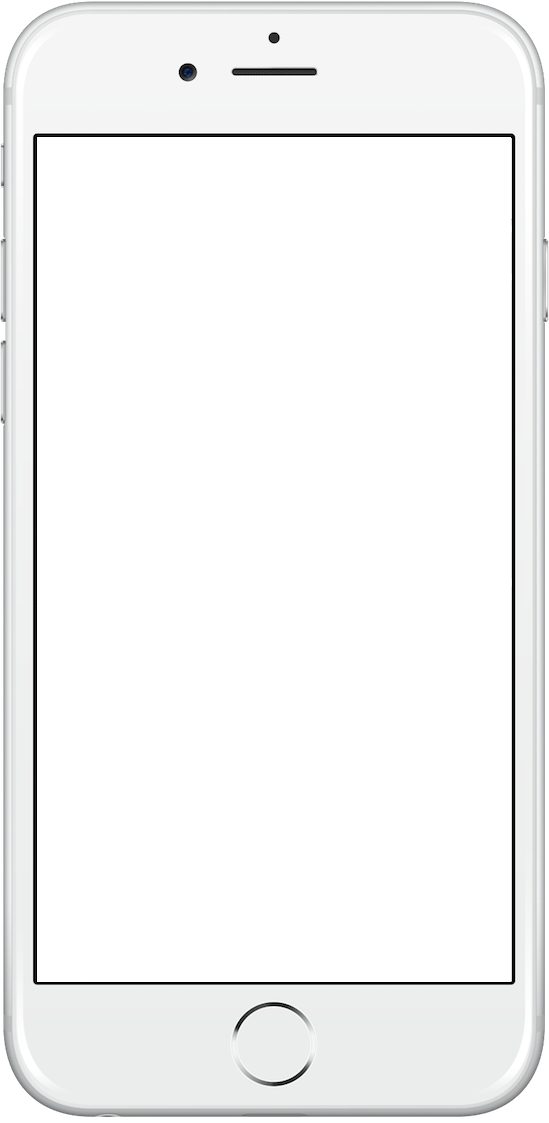
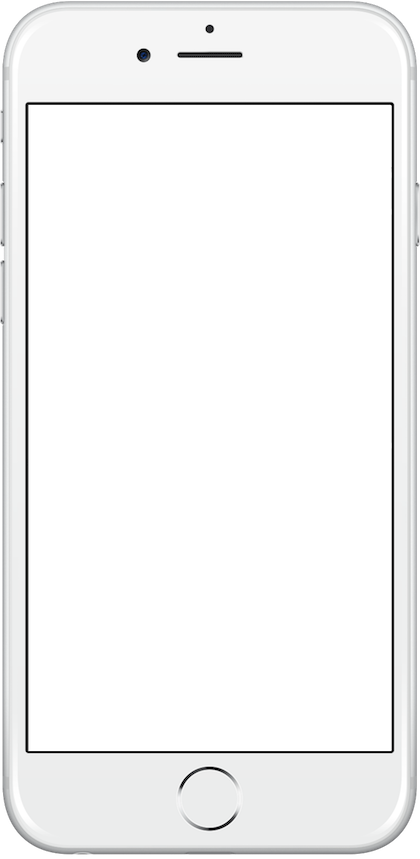
phone login false

diff --git a/src/app/nile-web/home/home/home.component.css b/src/app/nile-web/home/home/home.component.css
@@ -3,23 +3,42 @@
   color: white;
   background-image: url(/assets/images/construct-pickup-4c.jpg);
   width: 100%;
-    background-position: center;
-    background-repeat: no-repeat;
-    background-size: cover;
+  background-position: center;
+  background-repeat: no-repeat;
+  background-size: cover;
 }
-.float-form {
+
+#phoneform {
   float: right;
-  padding-left: 150px;
+  background-image: url(/assets/images/iphone-frame-white.png);
+  background-repeat: no-repeat;
+  margin-right: 25px;
+  margin-top: 100px;
+  width: 400px;
 }
+#iphoneframe {
+  width: 400px;
+  background-repeat: none;
+    /* box-shadow: 0 0 20px 0 rgba(0, 0, 0, 0.2), 0 5px 5px 0 rgba(0, 0, 0, 0.24); */
+      /* round iphone shading */
+}
+#landform {
+  background: #FFFFFF;
+  width: 360px;
+  padding: 40px;
+  text-align: center;
+  margin-top: 105px;
+  margin-left: 15px;
+}
+
 .btn {
   background-color: #0A5A89;
   border-color: #0A5A89;
 }
 
-.my-4 {
+.5 {
   width: 50%;
 }
-
 h1 {
   font-family: 'Oswald', sans-serif;
 }
@@ -32,83 +51,17 @@ h3 {
   font-family: 'Libre Baskerville', serif;
 }
 
-body {
-  padding-left: 20px;
-  padding-right: 20px;
-}
-
-.form img {
-  width: 65%;
-  height: 65%;
-}
-  
-  .form {
-  position: relative;
-  z-index: 1;
-  background: #FFFFFF;
-  max-width: 360px;
-  margin: 0 auto 100px;
-  padding: 40px;
-  text-align: center;
-  box-shadow: 0 0 20px 0 rgba(0, 0, 0, 0.2), 0 5px 5px 0 rgba(0, 0, 0, 0.24);
-  }
-  .form input {
-    font-family: "Roboto", sans-serif;
-    outline: 0;
-    background: #f2f2f2;
-    width: 100%;
-    border: 0;
-    margin: 0 0 15px;
-    padding: 15px;
-    box-sizing: border-box;
-    font-size: 14px;
-  }
-  .form button {
-    font-family: "Roboto", sans-serif;
-    text-transform: uppercase;
-    outline: 0;
-    background: #BC2025;
-    width: 100%;
-    border: 0;
-    padding: 15px;
-    color: #FFFFFF;
-    font-size: 14px;
-    -webkit-transition: all 0.3 ease;
-    transition: all 0.3 ease;
-    cursor: pointer;
-  }
-    .form button:hover,.form button:active,.form button:focus {
-      background: #BC2025;
-    }
-  .form .message {
-    margin: 15px 0 0;
-    color: black;
-    font-size: 12px;
-  }
-    .form .message a {
-      color: #BC2025;
-      text-decoration: none;
-    }
-  .form .register-form {
-    display: none;
-  }
-  .managers {
-    width: 50%;
-  }
-  .video {
-    background-color: lightgray;
-    background-image: url(/assets/images/Map_overlay.png);
-    width: 100%;
-    background-position: right;
-    background-repeat: no-repeat;
-    background-size: cover;
-  }
-hr {
+.managers {
   width: 50%;
 }
-.graffiti {
-  position: relative;
-  width:30vh;
+
+.video {
+  background-color: lightgray;
+  background-image: url(/assets/images/Map_overlay.png);
+  width: 100%;
+  background-position: right;
+  background-repeat: no-repeat;
+  background-size: cover;
 }
 .photo-section {
   background-image: url(/assets/images/constructscene.jpg);

diff --git a/src/app/nile-web/home/home/home.component.html b/src/app/nile-web/home/home/home.component.html
@@ -1,30 +1,30 @@
 <!-- Jumbotron -->
 <div class="jumbotron landing text-center">
 
+
   <!-- Signup Form -->
-  <div class="float-form hidden-sm-down">
-    <div class="form">
-        
-      
-      
-      <!-- <img class="" src="/assets/images/iphone-frame-white.png"> -->
-      
-      
-      
-      <h3 class="sub-head"><strong>Sign Up</strong></h3>
-      <app-landing-form></app-landing-form>
+  <div class="container-fluid" id="phoneform">
+      <!-- iPhone -->
+      <!-- <img src="/assets/images/iphone-frame-white.png"  id="iphoneframe"> -->
+      <!-- Form -->
+      <div class="float hidden-sm-down" id="landform">
+        <h3><strong>Sign Up</strong></h3>
+        <app-landing-form></app-landing-form>
+        <div class="hidden-md-up"></div>
+      </div>
     </div>
-  </div>
-  <div class="hidden-md-up"></div>
+  
+
 
   <!-- Title -->
-  <h1 class="display-3">Nile Delivery</h1>
-  <h2 class="lead">Run Smoother</h2>
-  <hr class="my-4">
-
-  <!-- <p>On-Demand Construction &amp; Trade Delivery Services</p>
-  <p><strong>On Call. On Site. On Time</strong></p> -->
+  <div class="container" id="title">
+    <h1 class="display-3">Nile Delivery</h1>
+    <h2 class="lead">Run Smoother</h2>
+    <hr class="5">
+  </div>
+ 
   
+
   <!-- Three Clients (Table) -->
   <div class="container-fluid">
     <div class="row justify-content-center">

diff --git a/src/app/nile-web/home/components/landing-form/landing-form.component.css b/src/app/nile-web/home/components/landing-form/landing-form.component.css
@@ -24,7 +24,7 @@ form button {
     text-transform: uppercase;
     outline: 0;
     background: #BC2025;
-    width: 100%;
+    width: 50%;
     border: 0;
     padding: 15px;
     color: #FFFFFF;
